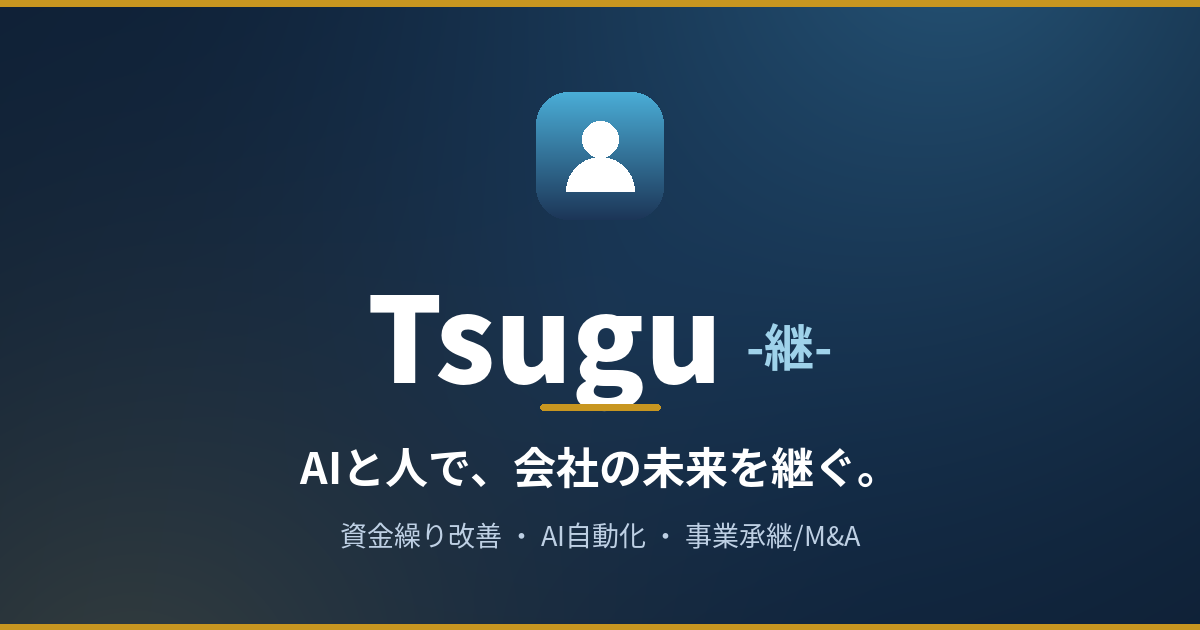
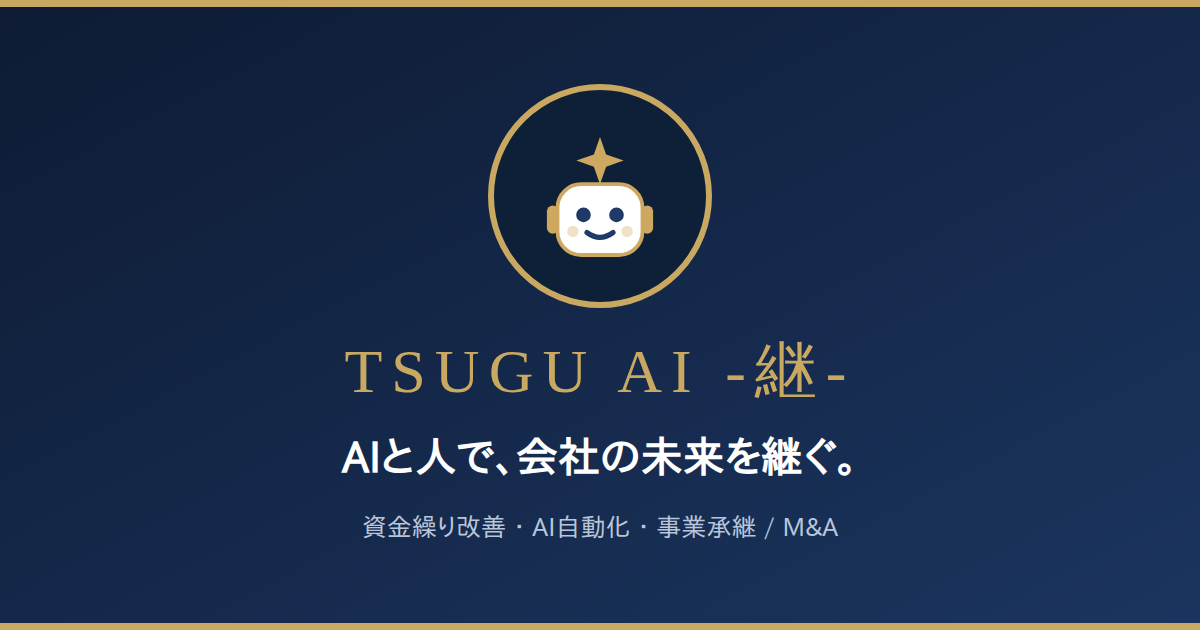
リンクを送ったときのサムネイルを作り直す
LINEに貼ったときのサムネイルが、人マークのままだった。文言も
「Tsugu -継-」で、いまの名前と合っていない。

継ナビくんの丸窓、TSUGU AI -継-、「AIと人で、会社の未来を継ぐ。」
の3段に組み直した。

LINEは横長のまま出すとは限らず、真ん中を正方形に切って小さく出す
ことがある。実際のトーク画面がそうなっていた。そこで大事なものは
中央の630角に収め、両端は地だけにしてある。切った場合と、実寸
110pxまで縮めた場合の両方で確かめた。

LINEやSNSは一度取ったOGP画像を強く握るため、参照に ?v=2 を付けた
（og:image と twitter:image の2か所）。

版下は tools/build-icons.py に足した。アイコンと同じ図形・同じ色を
使っているので、片方だけ古くなることがない。

Claude-Session: https://claude.ai/code/session_01FLj2nvpDqv6YWc7dnVpqmv

diff --git a/index.html b/index.html
@@ -13,14 +13,14 @@
 <meta property="og:title" content="TsuguAi -継- | AIと人で、会社の未来を継ぐ">
 <meta property="og:description" content="会社を、継ぐ。買う。譲る。その一歩手前から、AIと人で。承継・M&Aの「情報・判断・資金・統合」の壁を下げる経営プラットフォーム。">
 <meta property="og:url" content="https://y12fukukitaru.github.io/Tsugu-Ai/">
-<meta property="og:image" content="https://y12fukukitaru.github.io/Tsugu-Ai/ogp.png">
+<meta property="og:image" content="https://y12fukukitaru.github.io/Tsugu-Ai/ogp.png?v=2">
 <meta property="og:image:width" content="1200">
 <meta property="og:image:height" content="630">
 <meta property="og:locale" content="ja_JP">
 <meta name="twitter:card" content="summary_large_image">
 <meta name="twitter:title" content="TsuguAi -継- | AIと人で、会社の未来を継ぐ">
 <meta name="twitter:description" content="会社を、継ぐ。買う。譲る。承継・M&Aの壁をAIと人で下げる経営プラットフォーム。">
-<meta name="twitter:image" content="https://y12fukukitaru.github.io/Tsugu-Ai/ogp.png">
+<meta name="twitter:image" content="https://y12fukukitaru.github.io/Tsugu-Ai/ogp.png?v=2">
 
 <meta name="theme-color" content="#0E1B33">
 <link rel="icon" type="image/png" sizes="32x32" href="https://y12fukukitaru.github.io/Tsugu-Ai/favicon-32.png?v=4">
@@ -1263,7 +1263,7 @@
   //  GitHub Pages は HTML を最大10分キャッシュする。開いたままの画面や再訪問では
   //  古い版が動き続けるため、公開中の版（version.json）と突き合わせて知らせる。
   //  ※ index.html を直すときは、下の APP_BUILD と version.json の両方を同じ値にすること。
-  var APP_BUILD='20260818-2';
+  var APP_BUILD='20260818-3';
   var UPD_SEEN=false;
   function appReload(){ location.reload(); }
   function appUpdDismiss(){ var b=$('upd-bar'); if(b) b.classList.add('hidden'); }

diff --git a/tools/build-icons.py b/tools/build-icons.py
@@ -10,6 +10,7 @@
 #   icon-192 / icon-512    PWA（purpose:any）
 #   icon-512-maskable      Androidが円などで切り抜く版。中央80%に収める
 #   favicon-16 / 32 / ico  文字が読めない小ささなので継ナビくんだけ
+#   ogp.png           1200x630  リンクを送ったときのサムネイル
 import io, os, subprocess, sys
 
 ROOT = os.path.dirname(os.path.dirname(os.path.abspath(__file__)))   # リポジトリ直下
@@ -74,6 +75,49 @@ def svg(kind):
     return ('<svg id="ic" xmlns="http://www.w3.org/2000/svg" viewBox="0 0 %d %d" '
             'width="%d" height="%d">%s%s</svg>') % (S, S, S, S, bg, body)
 
+def ogp_svg():
+    """リンク共有のサムネイル（1200x630）。
+
+    LINEなどは横長のまま出すとは限らず、真ん中を正方形に切って小さく
+    出すことがある。実際にトーク画面ではそうなっていた。だから大事なもの
+    （継ナビくんと TSUGU AI）は中央の630角に収める。両端は地だけにする。
+    """
+    W, H = 1200, 630
+    bg = ('<defs><linearGradient id="g" x1="0" y1="0" x2="1" y2="1">'
+          '<stop offset="0" stop-color="%s"/><stop offset="1" stop-color="%s"/></linearGradient></defs>'
+          '<rect width="%d" height="%d" fill="url(#g)"/>' % (NAVY_T, NAVY_B, W, H))
+    rules = ('<rect x="0" y="0" width="%d" height="7" fill="%s"/>'
+             '<rect x="0" y="%d" width="%d" height="7" fill="%s"/>' % (W, RING, H - 7, W, RING))
+    jp = "IPAPGothic,IPAGothic,Noto Sans JP,sans-serif"
+    body = badge(600, 196, 112, 6) + (
+        '<text x="600" y="392" text-anchor="middle" fill="%s" '
+        'font-family="Liberation Serif,DejaVu Serif,serif" font-size="62" letter-spacing="9">'
+        'TSUGU AI -継-</text>'
+        '<text x="600" y="472" text-anchor="middle" fill="#FFFFFF" font-family="%s" '
+        'font-size="42" font-weight="bold">AIと人で、会社の未来を継ぐ。</text>'
+        '<text x="600" y="536" text-anchor="middle" fill="#B9C6DA" font-family="%s" '
+        'font-size="25">資金繰り改善 ・ AI自動化 ・ 事業承継 / M&amp;A</text>'
+        % (RING, jp, jp))
+    return ('<svg id="ic" xmlns="http://www.w3.org/2000/svg" viewBox="0 0 %d %d" '
+            'width="%d" height="%d">%s%s%s</svg>') % (W, H, W, H, bg, rules, body)
+
+def render_ogp(path):
+    from PIL import Image
+    W, H = 1200, 630
+    html = ('<meta charset="utf-8"><style>html,body{margin:0;padding:0;}'
+            '#ic{display:block;width:%dpx;height:%dpx;}</style>%s' % (W, H, ogp_svg()))
+    h = os.path.join(WORK, "_t_ogp.html")
+    io.open(h, "w", encoding="utf-8").write(html)
+    shot = os.path.join(WORK, "_shot_ogp.png")
+    subprocess.run([CHROME, "--headless=new", "--no-sandbox", "--disable-gpu",
+                    "--hide-scrollbars", "--force-device-scale-factor=1",
+                    "--window-size=1400,900", "--screenshot=" + shot, "file://" + h],
+                   check=True, capture_output=True)
+    im = Image.open(shot).convert("RGB").crop((0, 0, W, H))
+    assert im.getpixel((600, H - 2)) != (255, 255, 255), "版下の下端が白い"
+    im.save(path)
+    print("  %-22s %dx%d" % (os.path.basename(path), W, H))
+
 def render(kind, size, path):
     """1024で1枚だけ焼いて、そこから各寸法に落とす。
 
@@ -120,3 +164,4 @@ render("mark", 48, os.path.join(WORK, "_f48.png"))
 base = Image.open(os.path.join(WORK, "_f48.png")).convert("RGBA")
 base.save(os.path.join(ROOT, "favicon.ico"), sizes=[(16, 16), (32, 32), (48, 48)])
 print("  favicon.ico            16/32/48")
+render_ogp(os.path.join(ROOT, "ogp.png"))
